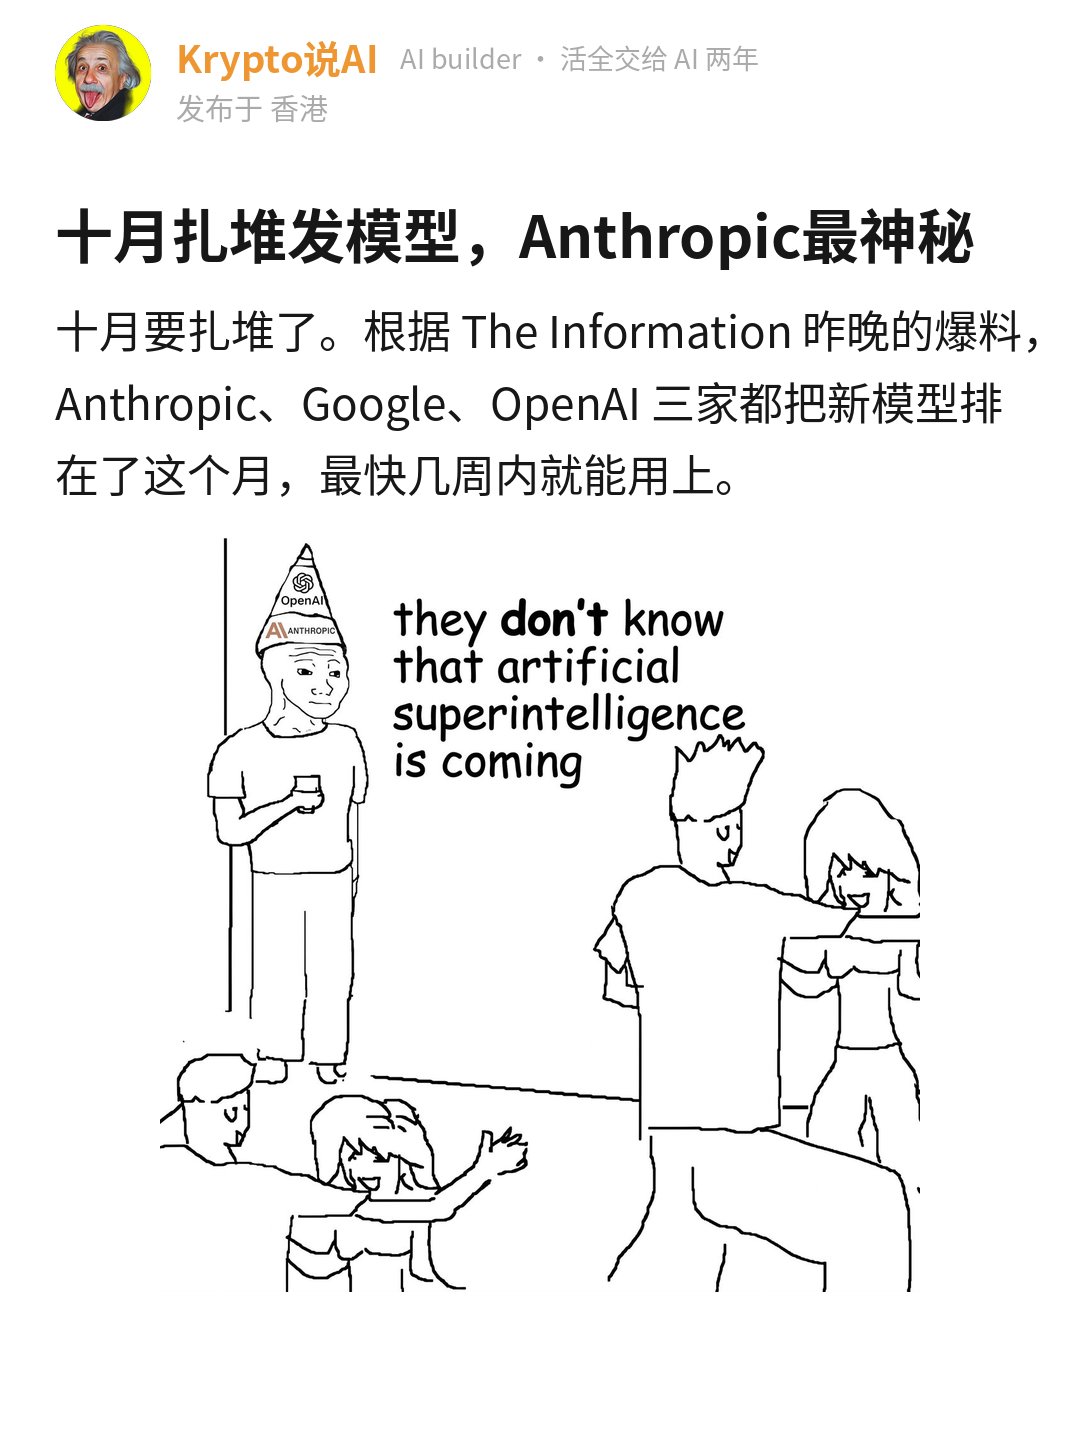
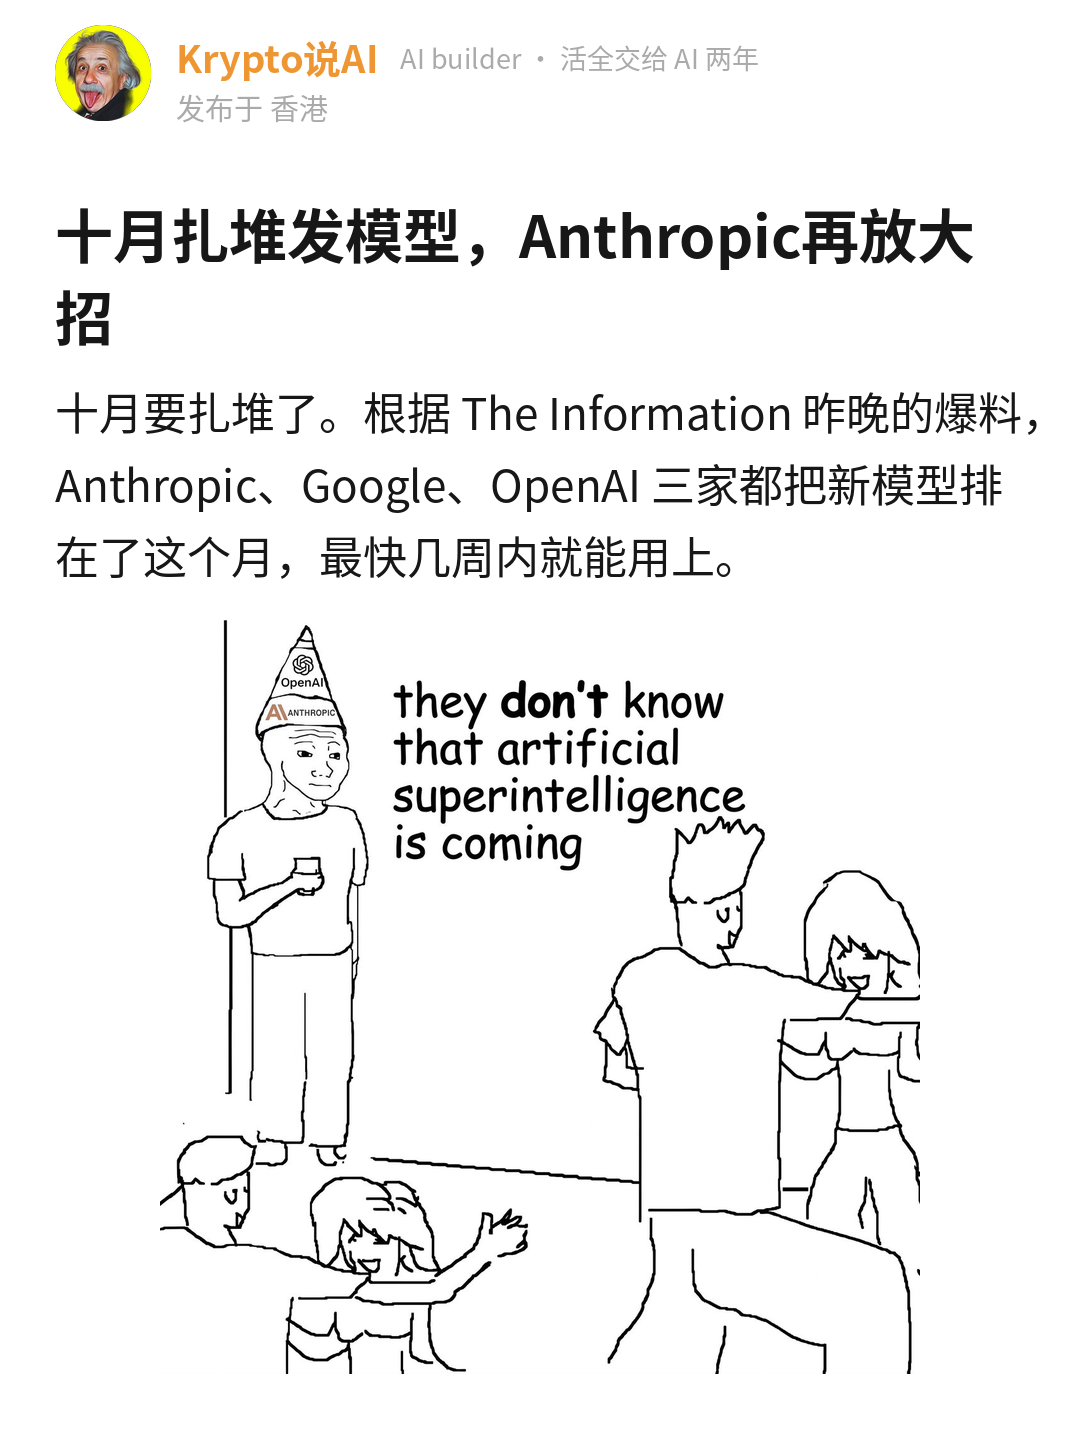
Anthropic 稿七改：标题改「Anthropic再放大招」
Claude-Session: https://claude.ai/code/session_01AMNtEXjLouQeh7jZFHjYwS

diff --git a/CLAUDE.md b/CLAUDE.md
@@ -3,7 +3,7 @@
 这个仓库是小红书账号 **Krypto说AI** 的工作区，也是它的记忆。在这里做的每一篇稿子，先读本页，再读 `账号/档案.md`、`账号/经历库.md` 和 `账号/爆文方法论.md`（10-14 起，选题 / 标题 / 首图 / 原文跟发的发前清单，交付时逐条写过没过）。每次用户说了新的经历、新的观点、新的规则，写回这两份文件并更新本页摘要，不要只留在对话里。
 
 ## 摘要
-- **10-20 Anthropic 新模型爆料稿（meme，热点快评，value 信息，立场 C，发布时间待定，`发布/2026-10-20_anthropic-new-model/`）**：素材是 TestingCatalog 10-19 转 The Information 爆料（Anthropic 本月发新模型，长处是读意图 + 不照本宣科；Gemini 4 Carbon、OpenAI Terra 同月；Opus 5.5 路由、Fable 5.5 痕迹是 TestingCatalog 自己的报道）。用户要短、新闻侧重；10-20 看稿后定改成更短的新闻版（600 字，3 页 + 名片卡）：开头直接说三家十月扎堆发模型，首图用 X 回复里的 wojak 漫画（用户：美式 meme 感可能更火），原文红框截图留正文，一图看懂卡撤掉，长版存 `draft_v2_长版.md`。再改（用户 10-20 二次看稿）：标题不能写成只有 Anthropic 一家（「Anthropic：三家十月扎堆发模型」✗），改「十月扎堆发模型，Anthropic最神秘」，可搜词在前 6 字之外 ⚠ 认了；「爆料」全文只说一次「根据最新爆料」，后面不再「爆料说」，像一直在转述新闻；2、3 页我们自己的观点收缩，整篇就是快速爆料 + 我们保持期待的那一点（读意图），400 字 3 页。改前存 `draft_v3_改标题前.md`。第 3 页再缩成一段（用户：体现非常期待就好，不要说太多）：「我最期待的是第一条……这个月我第一个试它」，删掉「你」那段和局限那段。四改（用户）：① Terra 是 OpenAI 现有系列，原推文写的是「a potential new Terra model」，稿里改成「OpenAI 的 Terra 可能也要出新版本」（The Information 和 TestingCatalog 原文云端打不开，没能再核）；② 首页 meme 图放大当传播工具，render_meme 新增 front matter `hero_max`（默认 480，这篇 760）；③ 第 3 页不写「我最期待的是第一条」这种读者对不上号的指代，直接写「Anthropic 这款我非常期待」+ 量大管饱（Opus 5.5 路由、Fable 5.5 痕迹、再来一款）；原文红框截图挪到最后一页。五改（用户问 Opus 5.5 路由 / Fable 5.5 痕迹的来源）：那两句出自 TestingCatalog 自己的推文串，二手观察，用户定删掉；「这个月我第一个试它」用户说很笨，也删。第 3 页只剩一句「Anthropic 这款我非常期待。」教训：meme 新闻稿里只用主信源的事实，转发者自己的报道不混进去。六改：原文截图裁成「newsletter 头部 + 红框那句」（`newsletter_crop.png`，去掉中间空白拼接），放进第 2 页「两个长处」段后面，「非常期待」收尾，总共 2 页正文 + 名片卡。写稿前先问没走（用户没在线），立场 / 价值 / 骨架全是默认：stance「模型能猜中你没写进提示词的要求，比会想出新算法值钱；返工都是从没听懂开始的」，反对发帖人「跳出框框才是大事、读意图有点吓人」；「我」只用经历库 #17（最难的活给 Fable 5）、#8（指示明确仍偏）、#20（拍任务 → 让它先给意见）。标题「Anthropic新模型：会猜你没说的」，三条备选都卡在 20 字（英文每字母算一字），没放数字和对比站队句。第 2 页「一图看懂」卡把 Google / OpenAI 放进图里，正文开头三段只留 Anthropic 和 The Information 两个锚点（专名数上限）。render_meme 云端要先 `apt-get update && apt-get install -y fonts-noto-cjk`，否则报 cannot open resource
+- **10-20 Anthropic 新模型爆料稿（meme，热点快评，value 信息，立场 C，发布时间待定，`发布/2026-10-20_anthropic-new-model/`）**：素材是 TestingCatalog 10-19 转 The Information 爆料（Anthropic 本月发新模型，长处是读意图 + 不照本宣科；Gemini 4 Carbon、OpenAI Terra 同月；Opus 5.5 路由、Fable 5.5 痕迹是 TestingCatalog 自己的报道）。用户要短、新闻侧重；10-20 看稿后定改成更短的新闻版（600 字，3 页 + 名片卡）：开头直接说三家十月扎堆发模型，首图用 X 回复里的 wojak 漫画（用户：美式 meme 感可能更火），原文红框截图留正文，一图看懂卡撤掉，长版存 `draft_v2_长版.md`。再改（用户 10-20 二次看稿）：标题不能写成只有 Anthropic 一家（「Anthropic：三家十月扎堆发模型」✗），改「十月扎堆发模型，Anthropic最神秘」，可搜词在前 6 字之外 ⚠ 认了；「爆料」全文只说一次「根据最新爆料」，后面不再「爆料说」，像一直在转述新闻；2、3 页我们自己的观点收缩，整篇就是快速爆料 + 我们保持期待的那一点（读意图），400 字 3 页。改前存 `draft_v3_改标题前.md`。第 3 页再缩成一段（用户：体现非常期待就好，不要说太多）：「我最期待的是第一条……这个月我第一个试它」，删掉「你」那段和局限那段。四改（用户）：① Terra 是 OpenAI 现有系列，原推文写的是「a potential new Terra model」，稿里改成「OpenAI 的 Terra 可能也要出新版本」（The Information 和 TestingCatalog 原文云端打不开，没能再核）；② 首页 meme 图放大当传播工具，render_meme 新增 front matter `hero_max`（默认 480，这篇 760）；③ 第 3 页不写「我最期待的是第一条」这种读者对不上号的指代，直接写「Anthropic 这款我非常期待」+ 量大管饱（Opus 5.5 路由、Fable 5.5 痕迹、再来一款）；原文红框截图挪到最后一页。五改（用户问 Opus 5.5 路由 / Fable 5.5 痕迹的来源）：那两句出自 TestingCatalog 自己的推文串，二手观察，用户定删掉；「这个月我第一个试它」用户说很笨，也删。第 3 页只剩一句「Anthropic 这款我非常期待。」教训：meme 新闻稿里只用主信源的事实，转发者自己的报道不混进去。六改：原文截图裁成「newsletter 头部 + 红框那句」（`newsletter_crop.png`，去掉中间空白拼接），放进第 2 页「两个长处」段后面，「非常期待」收尾，总共 2 页正文 + 名片卡。七改：标题 / headline 改「十月扎堆发模型，Anthropic再放大招」（用户定，21 字，超小红书 20 字上限 1 字，发布时注意）。写稿前先问没走（用户没在线），立场 / 价值 / 骨架全是默认：stance「模型能猜中你没写进提示词的要求，比会想出新算法值钱；返工都是从没听懂开始的」，反对发帖人「跳出框框才是大事、读意图有点吓人」；「我」只用经历库 #17（最难的活给 Fable 5）、#8（指示明确仍偏）、#20（拍任务 → 让它先给意见）。标题「Anthropic新模型：会猜你没说的」，三条备选都卡在 20 字（英文每字母算一字），没放数字和对比站队句。第 2 页「一图看懂」卡把 Google / OpenAI 放进图里，正文开头三段只留 Anthropic 和 The Information 两个锚点（专名数上限）。render_meme 云端要先 `apt-get update && apt-get install -y fonts-noto-cjk`，否则报 cannot open resource
 - **10-19 Jack Clark IMF 讲座稿（meme，观察，框架，立场 A，暂排 10-21，`发布/2026-10-21_jack-clark-imf/`）**：素材是 Jack Clark 10-17 在曼谷 IMF / 世行年会的 Per Jacobsson 讲座（62 年第一次请 AI 公司创始人）+ 印度首席经济顾问的反方。一个颠覆点：50 道未发表理论物理题，模型坚持专家答案错、专家回查真有错、最后 49/50。用户没答写稿前先问，立场 / 价值 / 骨架都是默认，「我」只用经历库 #17（最难的活交给 Claude）、#20（拍任务 → 让它提意见，正在转）。视频截图：云端 YouTube 拦下载（视频流 403，要 PO token），storyboard 只有 320×180；用户在 Mac 上截了三张，首页用大屏头像卡（眼睛睁着），另两张右下角讲台小窗里 Jack 低头闭眼，裁成只剩幻灯片。以后要视频截图直接请用户在 Mac 截，给时间点。**用户看稿后定（10-19）**：① 首页开头直接进素材里的事，不用「我把活交给 Claude」这类「我」的铺垫起笔；② 引入别固化成「我看了 / 我刚读了」，要换着用（周末读了、朋友推荐等，「朋友推荐」只在真有其事时用，不编）；③ 信息密度大的稿，前两页就要有插图 / 可视化（这篇第 2 页加了「一图看懂」卡）；④ 标题要有情绪和转折感，光有人名 + 数字不够（主标题改成「Anthropic联创：专家竟被AI纠错」）。还没改进 skill，规则冻结到 10-21，到期一起议
 - **10-19 LobsterAI 办公 Agent 报告稿（meme，观察，价值框架，立场 C，排 10-21 18:00，10-19 晚改方向 A，待用户看）**：素材是 LobsterAI《中国办公 Agent 用户行为报告》9 月版长图（只有 227px 宽，原图待用户补）+ 铁锤人 @lxfater 10-19 推特 thread。stance 反对 thread 原句「还变成新一代普通人学编程的夜校」：假期晚上写代码的还是原来会写的人（泛编程本来占四成任务）；一个模型够不够看交出去几种活。用户回答进经历库 #27（美股宏观监控、高尔夫动作教练都用 Claude Code 做；没看过缓存）#28（开始用 WorkBuddy 做微信生态）、观点库 #25。thread 把 V4.1 Flash / V4 Flash 的缓存数串了，「牛来营销」是他的推测，稿里都没用。「微信」被 meme_check 判站外导流，稿里写「腾讯生态」。标题用户 10-19 改成情绪 + 名字：首页 headline「LobsterAI：听说你们下班偷偷学AI？」，标题.txt 压到 20 字「LobsterAI：听说你下班偷学AI？」，主关键词改 LobsterAI。用户 10-19 定两条写作规则：形容词也用双字（第 12 条）；开头不替读者预设情绪（「第一反应多半是焦虑……其实用不着焦虑」像 AI），直接从信源反常的事实起笔，撤回 10-14「第二句是读者的焦虑」（writing_guide 第 3 节、爆文方法论第三节、meme-xhs SKILL）；别人不深入人心的比喻（「夜校」）只引原话一次，不拿来当全文意象（writing_guide 反面清单）；Echo 三样第 ② 条改成潜移默化：不写「如果你……这篇想讲清楚一件事」，用一句跟读者处境有关的事实让他自己对上号（writing_guide 6.10）。**10-19 晚用户说「食之无味」，改方向 A**：主线从反驳「夜校」换成「七成普通用户只用一个模型」，骨架是用户五个工具各一件真事（Claude 拆计划 / Codex 定时任务翻车 / Grok 早报 / DeepSeek 接 SayType / WorkBuddy 做小程序，经历库 #13 #9 #18 #24 #28），stance「一个模型够不够用取决于交出去几种活，挑模型看活不看榜单」（立场 C），图下正文给可照抄的分工卡；标题「LobsterAI：一个模型真的不够用」。教训：主线是反驳一件「还没发生」的事，读者读完拿不走东西。10-20 按小盖第十批改：开头加「在场的一句」（国内大厂做产品的朋友推荐 WorkBuddy 做小程序，经历库 #28）、加「读者直觉 → 翻过来」（挑一个最强的模型什么活都交给它就够了 → 我的体会不太一样），标题改认知差句「看来很多人没读懂LobsterAI报告。」。**10-20 用户要求按对标稿格式重写**（`对标/未署名_JackClark奇点稿/`）：评论员式连贯短文，不再编号；开头判断 + 分量 → 关键数 → 「你可以不在意用哪家模型，但用得多的人已经在按活分工」→ 放回整份报告（单次任务量半年涨三倍多）→ 拆「多模型 = 挑冠军」的误解 → 用户五个工具当证据 → 缓存账单 → 读者该留意什么 → 问读者 + 自己的答案「先数活，再挑模型」。删掉素材里没有的「不写代码的人用得最多的是整理数据和表格」（报告只有假期份额 −2.9）。改前存 `draft_v9_改格式前.md`，940 字 7 页
 - **10-18 晚 对标 Echo note 回响阅览室，学了三样（用户定「写进 skills」，`对标/Echo note回响阅览室/拆解.md`）**：用户说稿子「像转述、没有个人 IP」。Echo 做海外播客精读，素材全是别人的却不像搬运，靠首尾一个「我」的框。写进 meme-xhs SKILL + writing_guide 6.10、own-xhs、爆文方法论发前清单 2.6：① 首页「我最想说的一件事是：（stance）」，用户真改变过看法才写「改观」；② 紧跟点名读者 + 承诺；③ 结尾「以前 / 现在」（用户真实变化）+ 两类读者各一句。不进 meme_check，验证稿待 3 篇（Anthropic 就业稿 10-18 19:15 实际发出去的是试三样之前的版本，不算，下一篇起算）。节尾加粗对仗金句不学（10-02 被认出 AI 的句式）；标题用「情绪 + 人名 / 模型名 / 信源」（用户 10-18 晚定，如「强烈推荐看看Anthropic就业报告。」），不写只有情绪没名字的，备选三条至少一条用这种

diff --git a/发布/2026-10-20_anthropic-new-model/meme版/编辑用/draft.md b/发布/2026-10-20_anthropic-new-model/meme版/编辑用/draft.md
@@ -1,5 +1,5 @@
 ---
-title: 十月扎堆发模型，Anthropic最神秘
+title: 十月扎堆发模型，Anthropic再放大招
 genre: 热点快评
 hot: true
 value: 信息
@@ -9,7 +9,7 @@ stance_line: C
 output: 这个月谁先发，就先拿自己最常返工的那件活试谁
 keyword: Anthropic
 keywords: Claude, 新模型, Gemini 4
-headline: 十月扎堆发模型，Anthropic最神秘
+headline: 十月扎堆发模型，Anthropic再放大招
 hero: reply_meme.jpg
 hero_after: 1
 hero_max: 760
